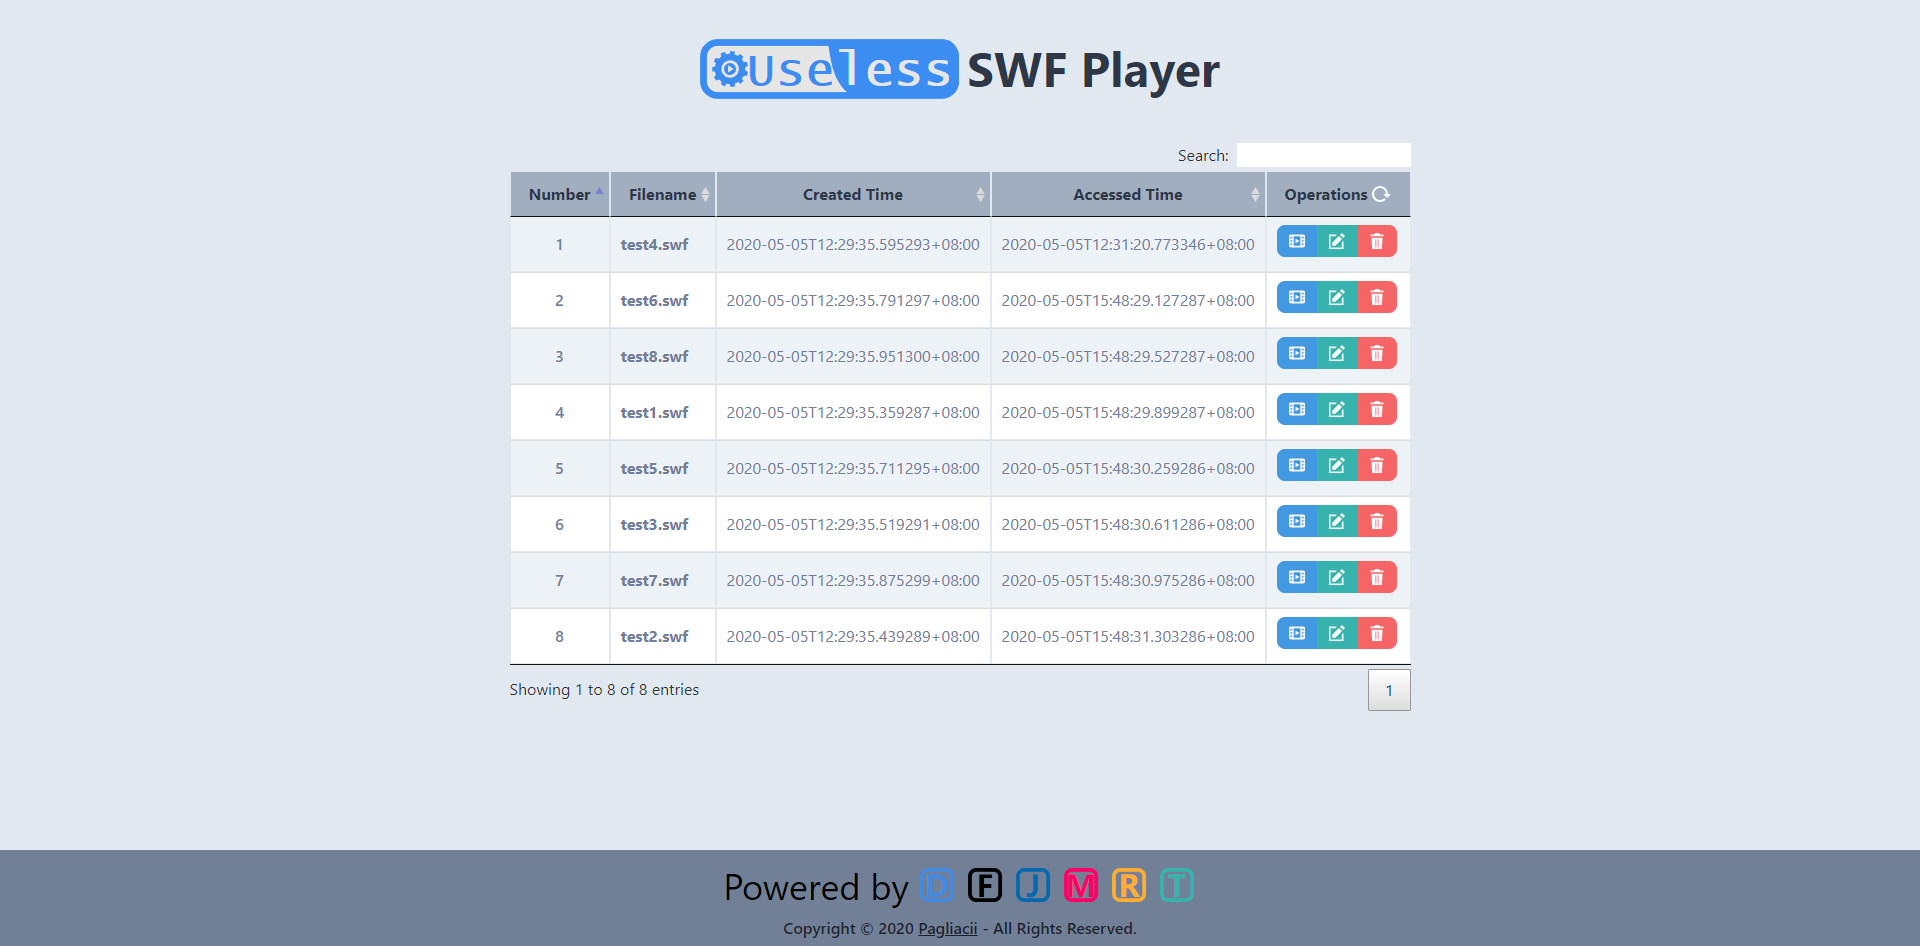
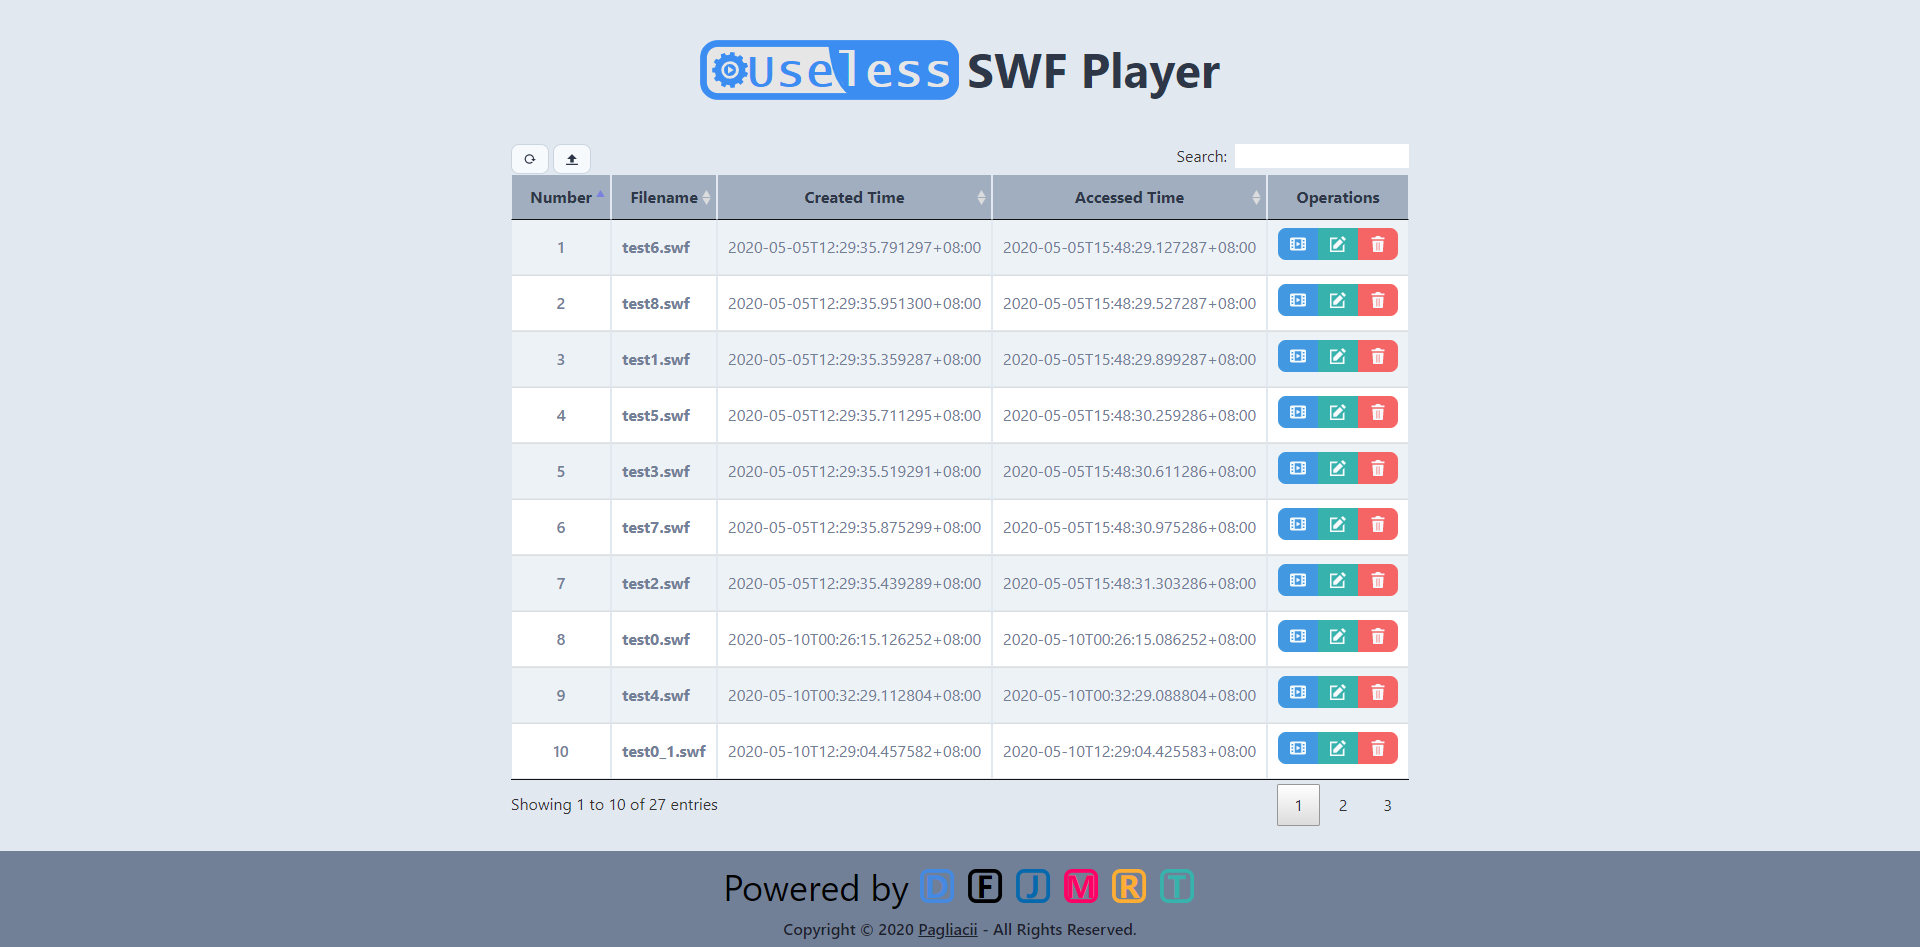
docs: update the README.md

Changed region(s): [[0.25, 0.1533, 0.75, 0.8584], [0.375, 0.0307, 0.625, 0.092]]

diff --git a/README.md b/README.md
@@ -34,6 +34,16 @@ $ ./run.sh -p
 
 ![screenshot5](./assets/screenshot5.png)
 
+![screenshot6](./assets/screenshot6.png)
+
+![screenshot7](./assets/screenshot7.png)
+
+![screenshot8](./assets/screenshot8.png)
+
+![screenshot9](./assets/screenshot9.png)
+
+![screenshot10](./assets/screenshot10.png)
+
 ## Development
 
 ### Commands
@@ -63,6 +73,14 @@ $ FLASK_APP=wsgi.py FLASK_ENV=development yarn run dev
     - `video.py`: `/video` Blueprint
 + `css/tailwind.css`: tailwindcss 文件
 + `static`: 静态文件目录
+    - `css`:
+        + `errors.css`: 错误页面使用的 CSS 文件
+        + `main.css`: 首页使用的 CSS 文件
+        + `tailwind.css`: tailwindcss 生成的 CSS 文件
+    - `js`:
+        + `main.js`: 主要逻辑
+        + `rename.js`: 重命名的 JavaScript 代码
+        + `upload.js`: 上传文件的 JavaScript 代码
 + `swfs`: SWF 文件目录
 + `templates`: 模版目录
     - `404.html`: 404 页面
@@ -71,6 +89,8 @@ $ FLASK_APP=wsgi.py FLASK_ENV=development yarn run dev
     - `error.html`: 错误页面的基础模板
     - `index.html`: 首页
     - `macros.html`: 自定义的 `Jinja` 宏
+    - `rename_modal.html`: 重命名的 Modal 页面
+    - `upload_modal.html`: 上传文件的 Modal 页面
     - `video.html`: 播放页面
 + `config.py`: Flask App 的配置文件
 + `tailwind.config.js`: tailwindcss 的配置文件
@@ -78,32 +98,43 @@ $ FLASK_APP=wsgi.py FLASK_ENV=development yarn run dev
 
 ### API
 
-+ `/`
++ `GET /`
     - 描述：首页
-    - 方法：GET
     - 参数：无
     - 响应：HTML
-+ `/files/update`
++ `GET /files/update`
     - 描述：重新扫描所有 SWF 文件并更新数据库
-    - 方法：GET
     - 参数：无
     - 响应：JSON `{ "status": "ok|failure", ["reason": "blablabla"]}`
-+ `/files/<path:filename>`
++ `GET /files/<path:filename>`
     - 描述：获取文件内容
-    - 方法：GET
     - 参数：无
     - 响应：文件流
-+ `/video/<int:file_id>`
++ `DELETE /files/<path:filename>`
+    - 描述：删除指定文件
+    - 参数：无
+    - 响应：JSON `{ "status": "ok|failure", ["reason": "blablabla"]}`
++ `POST /files/<path:filename>`
+    - 描述：重命名指定文件
+    - 参数：
+        + `filename`：新的文件名
+    - 响应：JSON `{ "status": "ok|failure", ["reason": "blablabla"]}`
++ `POST /files/upload`
+    - 描述：上传文件
+    - 参数：
+        + `files[]`：要上传的文件
+    - 响应：JSON `{ "status": "ok|failure", ["reason": "blablabla"]}`
++ `GET /video/<int:file_id>`
     - 描述：打开指定文件的播放页面
-    - 方法：GET
     - 参数：无
     - 响应：HTML
 
 ### Utils
 
-+ `get_file_created_time(file_stat: os:stat_result) -> str`: 获取 ISO 格式的文件创建时间
-+ `get_file_accessed_time(file_stat: os:stat_result) -> str`: 获取 ISO 格式的文件访问时间
-+ `get_file_infos(directory: str) -> Generator`: 遍历指定目录，并生成其下文件的相关信息
++ `get_file_created_time(file_path: str) -> str`: 获取 ISO 格式的文件创建时间
++ `get_file_accessed_time(file_path: str) -> str`: 获取 ISO 格式的文件访问时间
++ `get_file_info(file_path: str) -> Dict`: 获取指定路径文件的相关信息
++ `get_files_info(directory: str) -> Generator`: 遍历指定目录，并生成其下文件的相关信息
 + `scan_swfs_folder(database: SQLAlchemy, logger: logging.Logger)`: 扫描 `swfs` 目录并更新数据库
 + `swf_parser::Header(path: str)`: 获取 SWF 文件头
 
